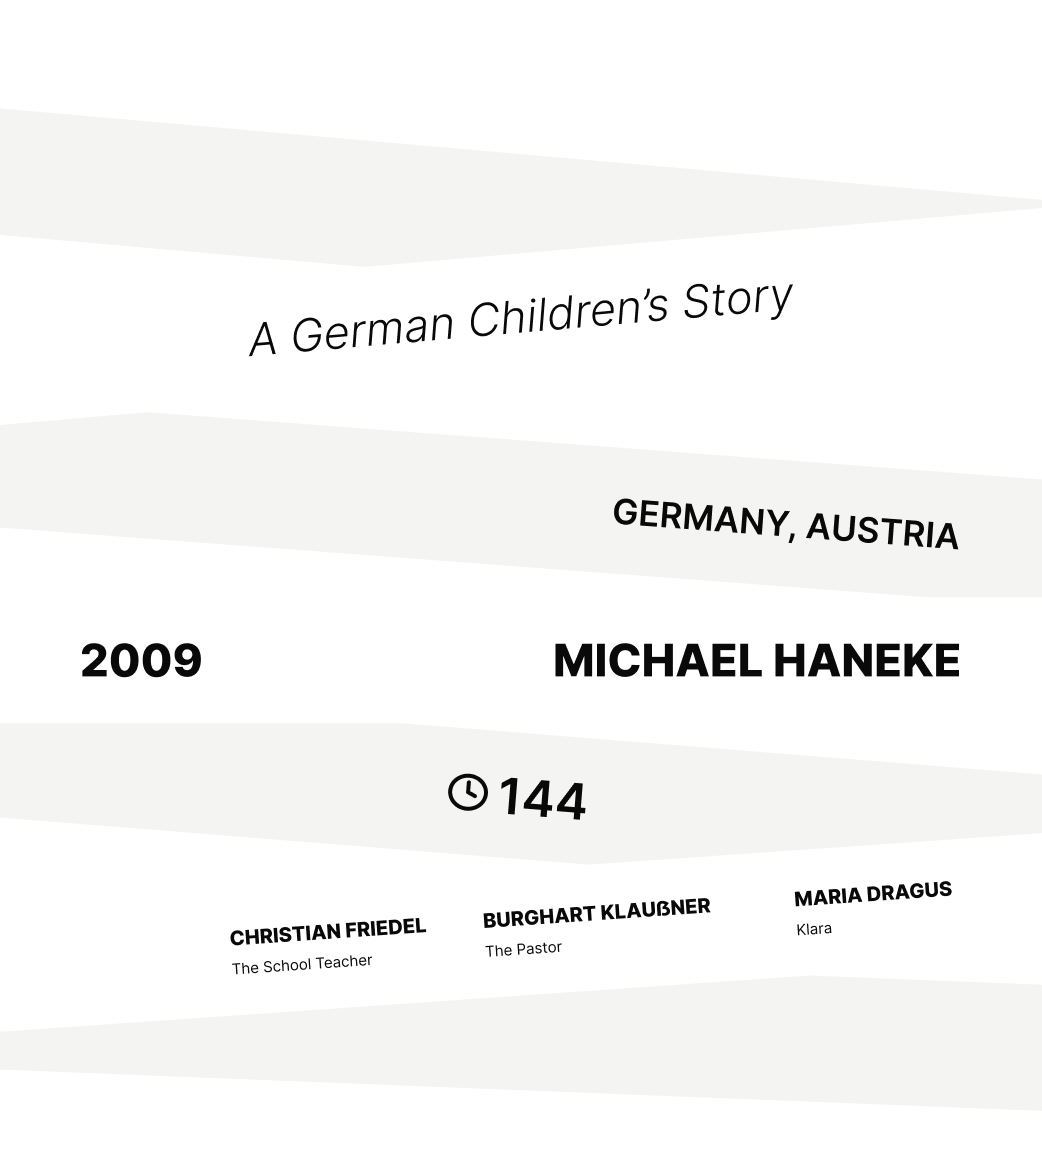
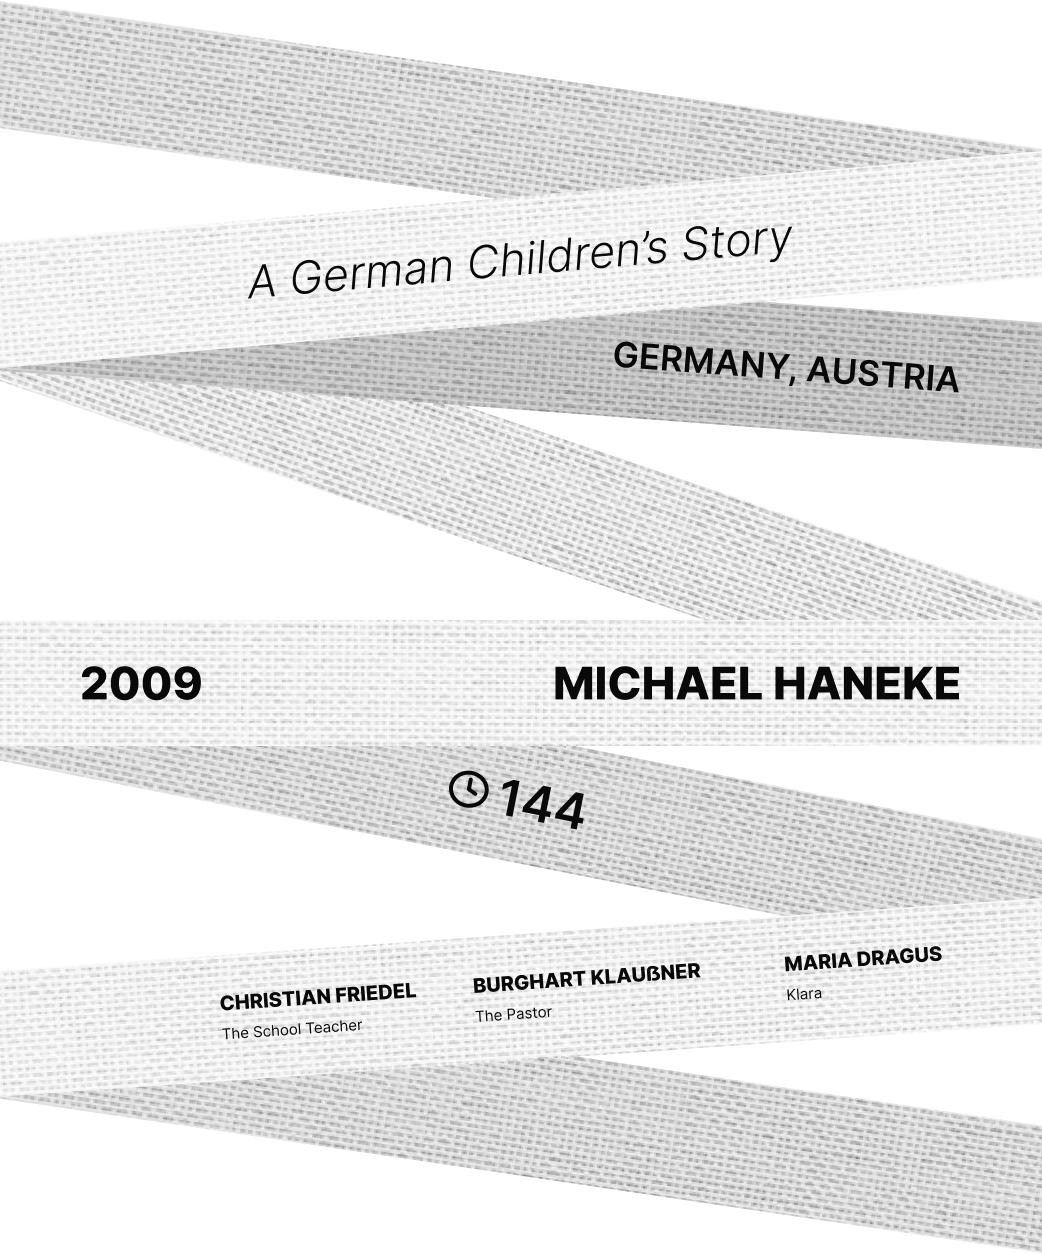
feat: nova imagem na seção about

diff --git a/src/styles/_about.scss b/src/styles/_about.scss
@@ -66,6 +66,7 @@
 // mobile
 @media (max-width: 767px) {
     .about {
+        // height: 150vh;
 
         &__container {
             position: relative;
@@ -76,7 +77,7 @@
 
             &__ribbons-small {
                 position: absolute;
-                top: -120px;
+                top: -40px;
                 display: block;
             }
         }
